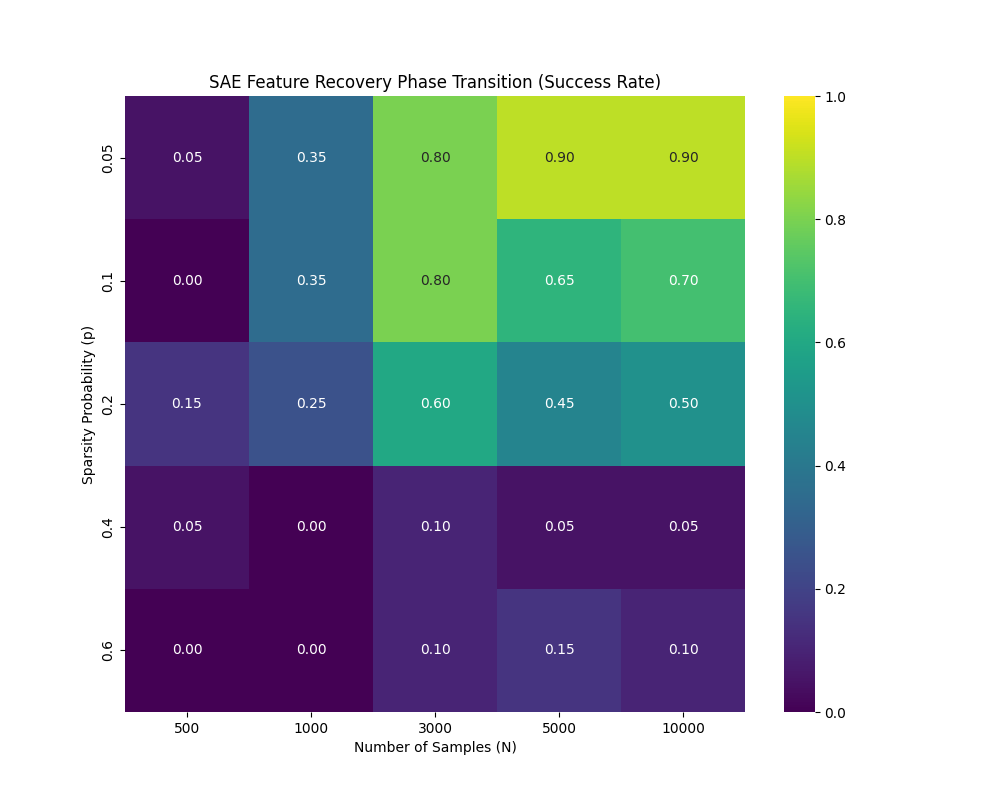
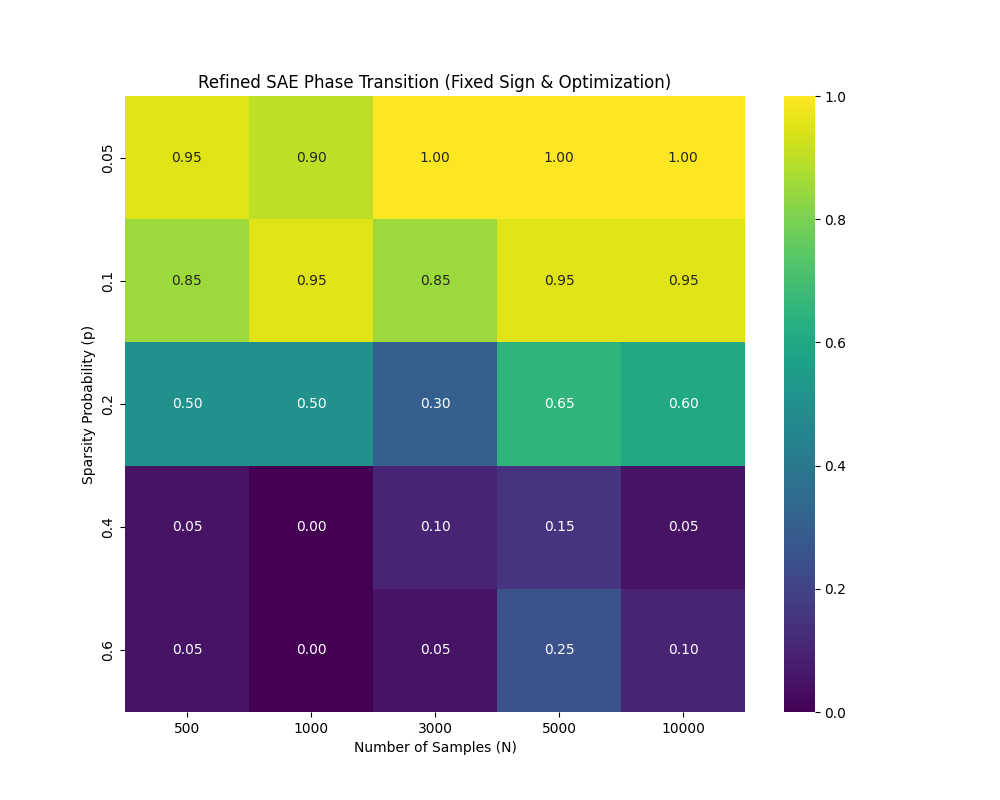
ローカルの変更を反映

diff --git a/Phase_transition_FINAL.py b/Phase_transition_FINAL.py
@@ -8,39 +8,50 @@ import seaborn as sns
 from scipy.optimize import linear_sum_assignment
 
 
-DEVICE = torch.device("cpu")
+DEVICE = torch.device("cuda" if torch.cuda.is_available() else "cpu")
 print(f"Running on: {DEVICE}")
 
-#再現性のため固定
+#再現性のため
 torch.manual_seed(42)
 np.random.seed(42)
+
 
 class ToySAE(nn.Module):
     def __init__(self, input_dim, hidden_dim):
         super().__init__()
         self.encoder = nn.Linear(input_dim, hidden_dim)
+        #バイアスなし
         self.decoder = nn.Linear(hidden_dim, input_dim, bias=False)
         self.apply_decoder_constraint()
 
     def apply_decoder_constraint(self):
+        #デコーダ重みの列ノルムを1に固定
         with torch.no_grad():
             self.decoder.weight.data = F.normalize(self.decoder.weight.data, p=2, dim=0)
 
     def forward(self, x):
+        #ReLU
         z = F.relu(self.encoder(x))
         x_reconstruct = self.decoder(z)
         return x_reconstruct, z
 
-def generate_synthetic_data(n_samples, n_features, input_dim, sparsity_prob):
+#
+def generate_synthetic_data_fixed(n_samples, n_features, input_dim, sparsity_prob):
+    #真の辞書
     true_features = torch.randn(input_dim, n_features).to(DEVICE)
     true_features = F.normalize(true_features, p=2, dim=0)
     
+    #スパース係数の生成
     mask = (torch.rand(n_samples, n_features) < sparsity_prob).float().to(DEVICE)
-    coeffs = torch.randn(n_samples, n_features).to(DEVICE) * mask
+    
+    #係数を非負にする (ReLUエンコーダとの整合性確保)
+    #これにより、モデルが表現不可能な負の相関を排除
+    coeffs = torch.randn(n_samples, n_features).abs().to(DEVICE) * mask
+    
     data = torch.matmul(coeffs, true_features.T)
     return data, true_features
 
-#
+
 def calculate_recovery_rate(sae_decoder, true_features, threshold=0.9):
     with torch.no_grad():
         W_est = F.normalize(sae_decoder.weight, p=2, dim=0).T
@@ -49,24 +60,27 @@ def calculate_recovery_rate(sae_decoder, true_features, threshold=0.9):
         #類似度行列
         similarity_matrix = torch.matmul(W_est, W_true.T).abs().cpu().numpy()
         
-        #最適マッチング
+        #線形割当問題で最適なマッチングを見つける
         row_ind, col_ind = linear_sum_assignment(similarity_matrix, maximize=True)
         matched_sims = similarity_matrix[row_ind, col_ind]
         
-        #閾値判定
+
         success_count = (matched_sims > threshold).sum()
-        total_features = len(W_true)
-        
-        return success_count / total_features
+        return success_count / len(W_true)
+
 
 def run_single_experiment(n_samples, sparsity_prob):
     n_features = 20
     input_dim = 10
     hidden_dim = 80 
-    epochs = 300 
     
-    data, true_features = generate_synthetic_data(n_samples, n_features, input_dim, sparsity_prob)
-    loader = torch.utils.data.DataLoader(data, batch_size=min(256, n_samples), shuffle=True)
+    batch_size = min(256, n_samples)
+    min_total_updates = 6000  #最低更新回数
+    steps_per_epoch = max(1, n_samples // batch_size)
+    epochs = int(np.ceil(min_total_updates / steps_per_epoch))
+    
+    data, true_features = generate_synthetic_data_fixed(n_samples, n_features, input_dim, sparsity_prob)
+    loader = torch.utils.data.DataLoader(data, batch_size=batch_size, shuffle=True)
     
     model = ToySAE(input_dim, hidden_dim).to(DEVICE)
     optimizer = optim.Adam(model.parameters(), lr=1e-3)
@@ -76,19 +90,23 @@ def run_single_experiment(n_samples, sparsity_prob):
         for batch in loader:
             optimizer.zero_grad()
             x_recon, z = model(batch)
+            
             recon_loss = F.mse_loss(x_recon, batch)
             l1_loss = z.abs().sum() / batch.size(0)
+            
             loss = recon_loss + 0.1 * l1_loss
             loss.backward()
             optimizer.step()
+            
+            #制約は更新ごとに適用
             model.apply_decoder_constraint()
             
-    #ここで新しい評価関数を呼ぶ
-    return calculate_recovery_rate(model.decoder, true_features, threshold=0.9)
+    return calculate_recovery_rate(model.decoder, true_features)
 
 if __name__ == "__main__":
-    print("Starting Phase Transition Analysis (Metric: Recovery Rate)...")
+    print("Starting Refined Phase Transition Analysis...")
     
+    #検証するパラメータグリッド
     sparsity_list = [0.05, 0.1, 0.2, 0.4, 0.6] 
     sample_list = [500, 1000, 3000, 5000, 10000]
     
@@ -96,22 +114,20 @@ if __name__ == "__main__":
     
     for i, sp in enumerate(sparsity_list):
         for j, n in enumerate(sample_list):
-            print(f"Testing: Sparsity={sp}, Samples={n} ... ", end="")
             score = run_single_experiment(n, sp)
             results[i, j] = score
-            #ログ表示が変わっているか確認！
-            print(f"RecoveryRate={score:.2f}") 
+            print(f"Sparsity={sp}, Samples={n} -> RecoveryRate={score:.2f}")
 
+    #描画
     plt.figure(figsize=(10, 8))
-    #vmin=0, vmax=1 で固定し、色の対比を最大化
     sns.heatmap(results, annot=True, fmt=".2f", 
                 xticklabels=sample_list, yticklabels=sparsity_list, 
                 cmap="viridis", vmin=0, vmax=1)
     
     plt.xlabel("Number of Samples (N)")
     plt.ylabel("Sparsity Probability (p)")
-    plt.title("SAE Feature Recovery Phase Transition (Success Rate)")
+    plt.title("Refined SAE Phase Transition (Fixed Sign & Optimization)")
     
-    save_path = "sae_phase_transition_final.png"
+    save_path = "sae_phase_transition_refined.png"
     plt.savefig(save_path)
-    print(f"\nSaved final heatmap to: {save_path}")
+    print(f"\nSaved refined heatmap to: {save_path}")
